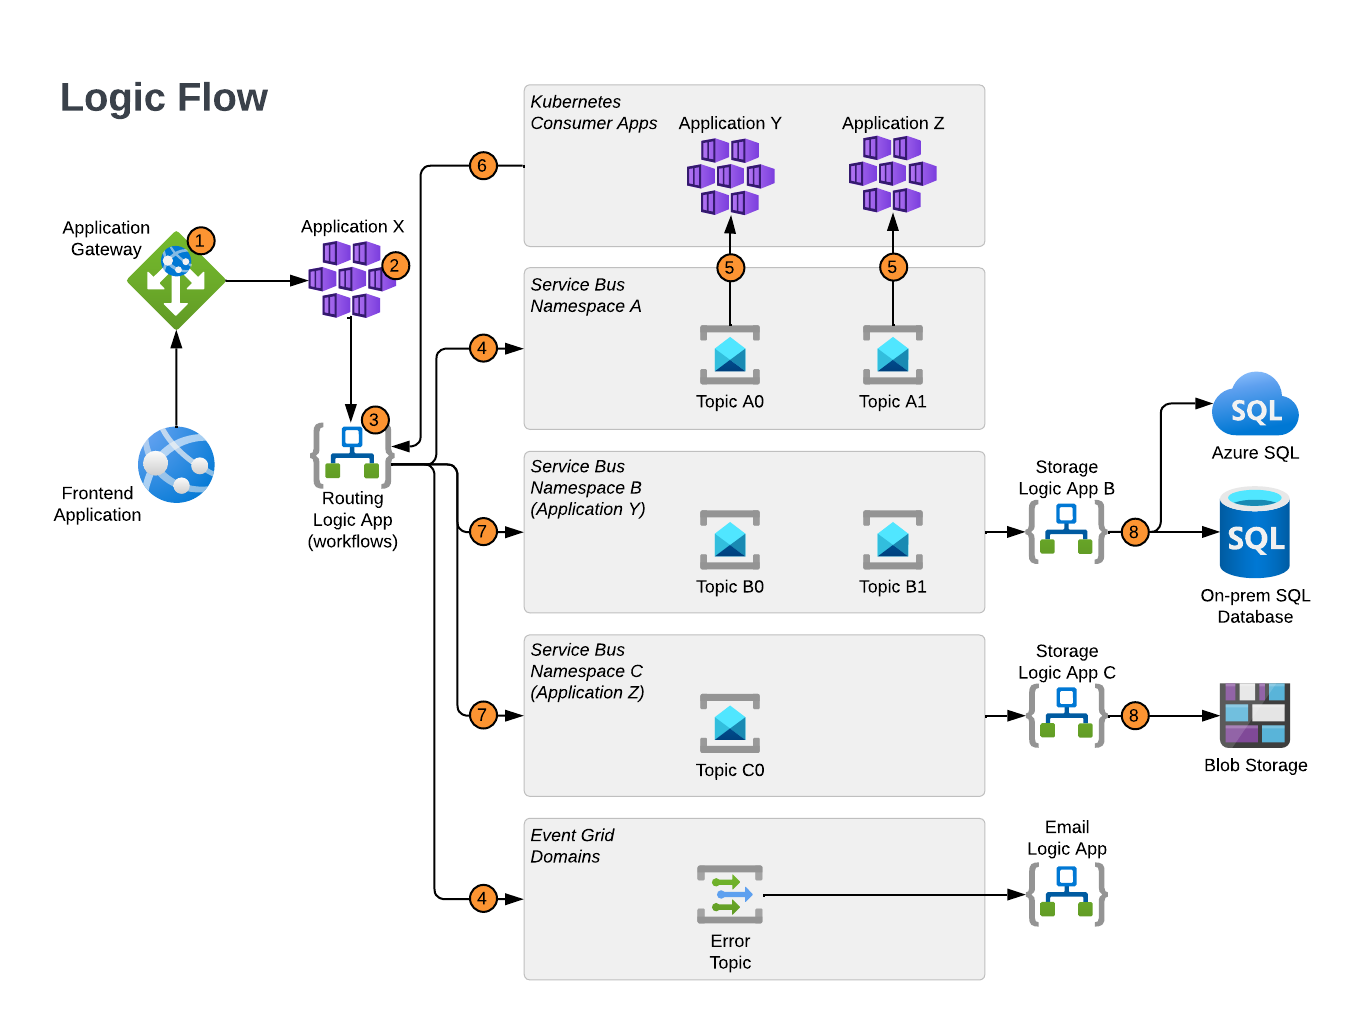
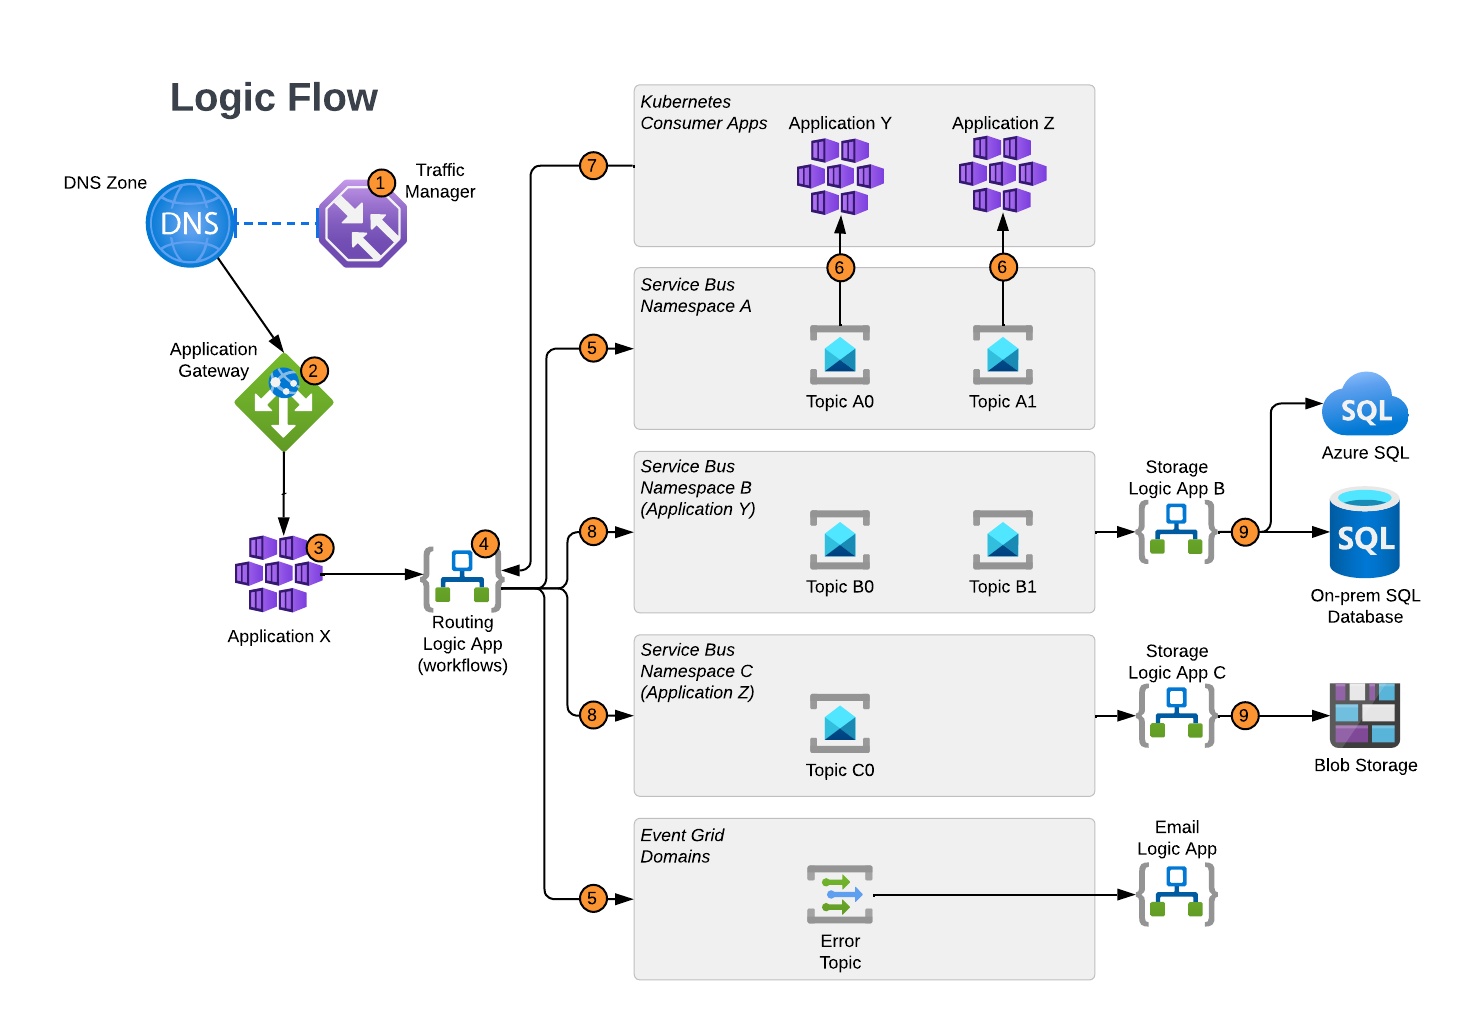
traffic manager  and updated diagrams

diff --git a/README.md b/README.md
@@ -54,14 +54,15 @@ Make that event data available for other applications and services in a multi-re
 ![Logic Structure](pub_sub_pattern_logic_flow.png)
 
 ## Pattern Logic Flow
-1. Azure Application Gateway ingests data.
-2. Application X processes data.
-3. Routing Logic App routes data to Service Bus Namespace A Topics or to Event Grid Topics as appropriate.
-4. Data is queued in Service Bus Topics.
-5. Application Y or Z retrieves data from Service Bus Topics.
-6. Applications Y and Z sends data to Routing Logic App.
-7. Routing Logic App sends data to Service Bus Namespace B or C as appropriate.
-8. Storage Logic App sends data to Azure SQL, On-Prem SQL, or Blob Storage as appropriate.
+1. Azure Traffic Manager monitors Application Gateway Endpoint health in each region and updates DNS as appropriate.
+2. Azure Application Gateway ingests data.
+3. Application X processes data.
+4. Routing Logic App routes data to Service Bus Namespace A Topics or to Event Grid Topics as appropriate.
+5. Data is queued in Service Bus Topics.
+6. Application Y or Z retrieves data from Service Bus Topics.
+7. Applications Y and Z sends data to Routing Logic App.
+8. Routing Logic App sends data to Service Bus Namespace B or C as appropriate.
+9. Storage Logic App sends data to Azure SQL, On-Prem SQL, or Blob Storage as appropriate.
 
 ## Service Usage Details
 This structure deploys infrastructure to two regions for redundancy.
